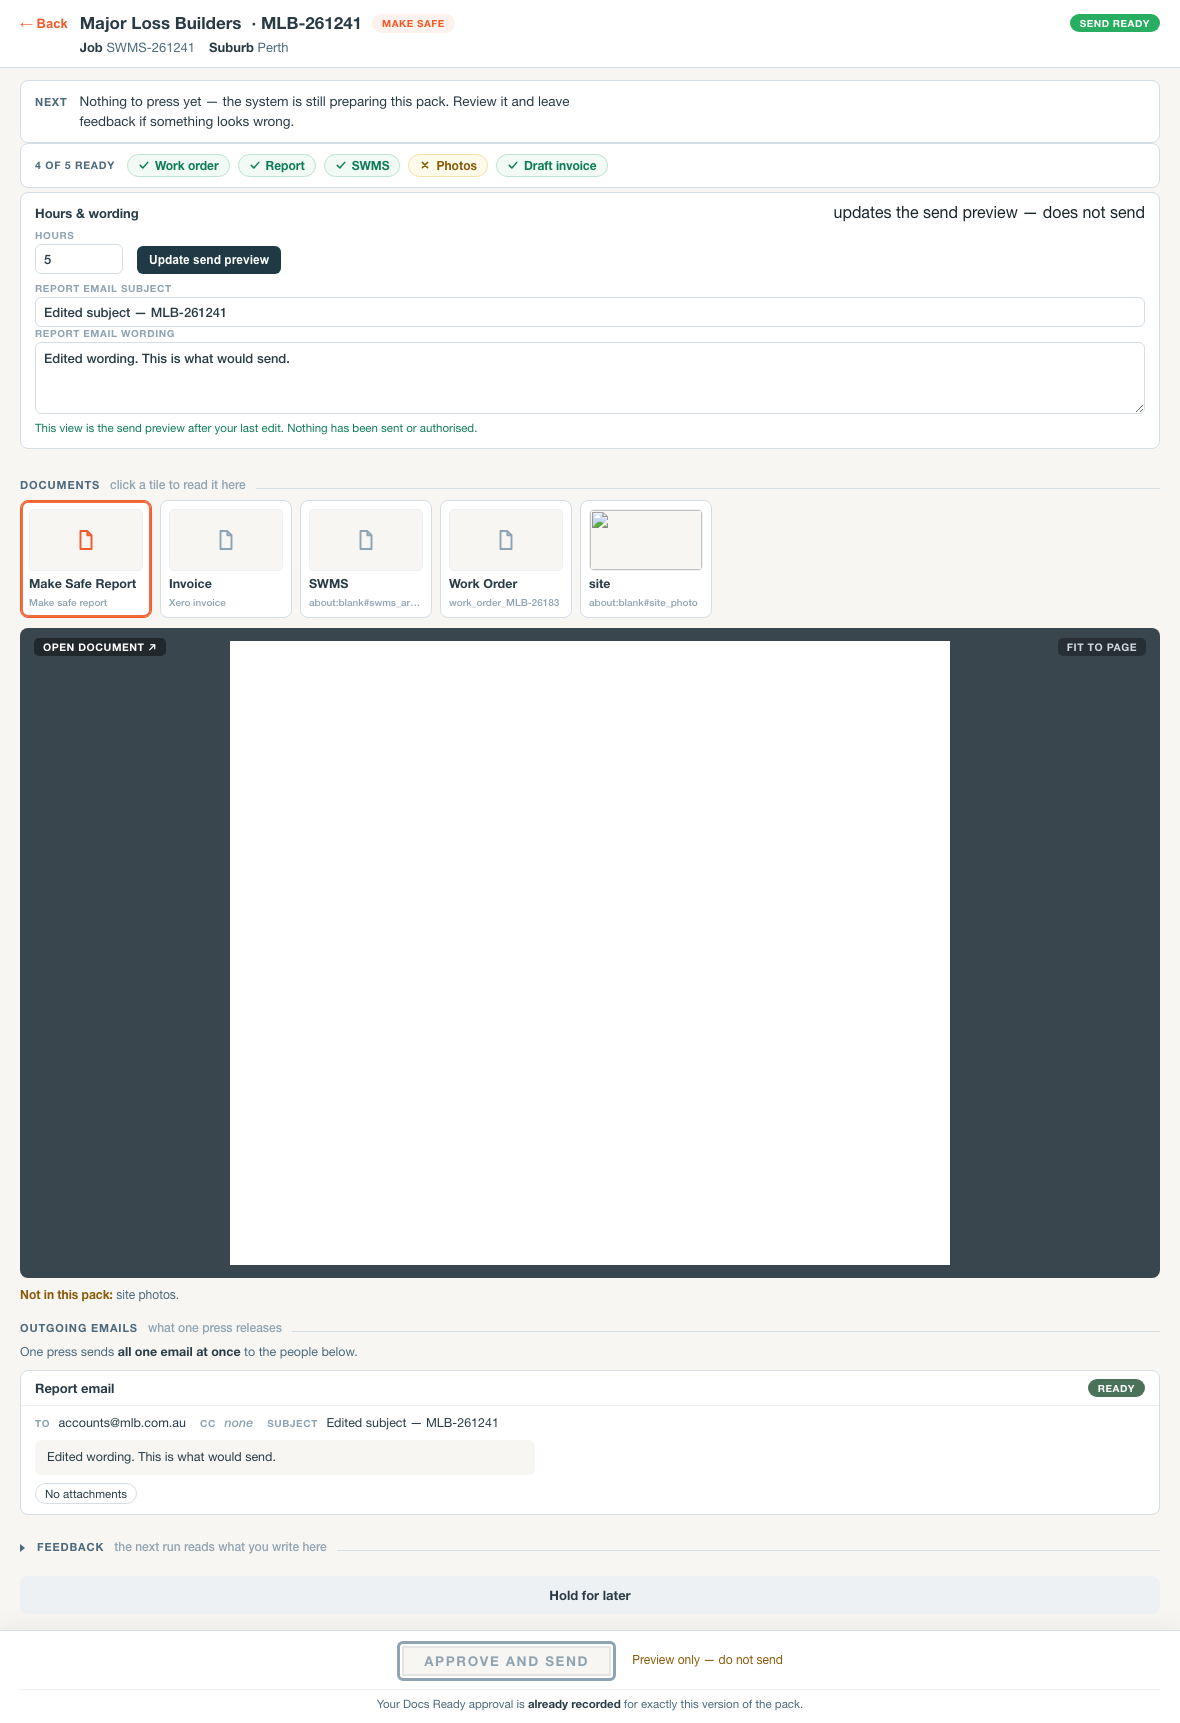
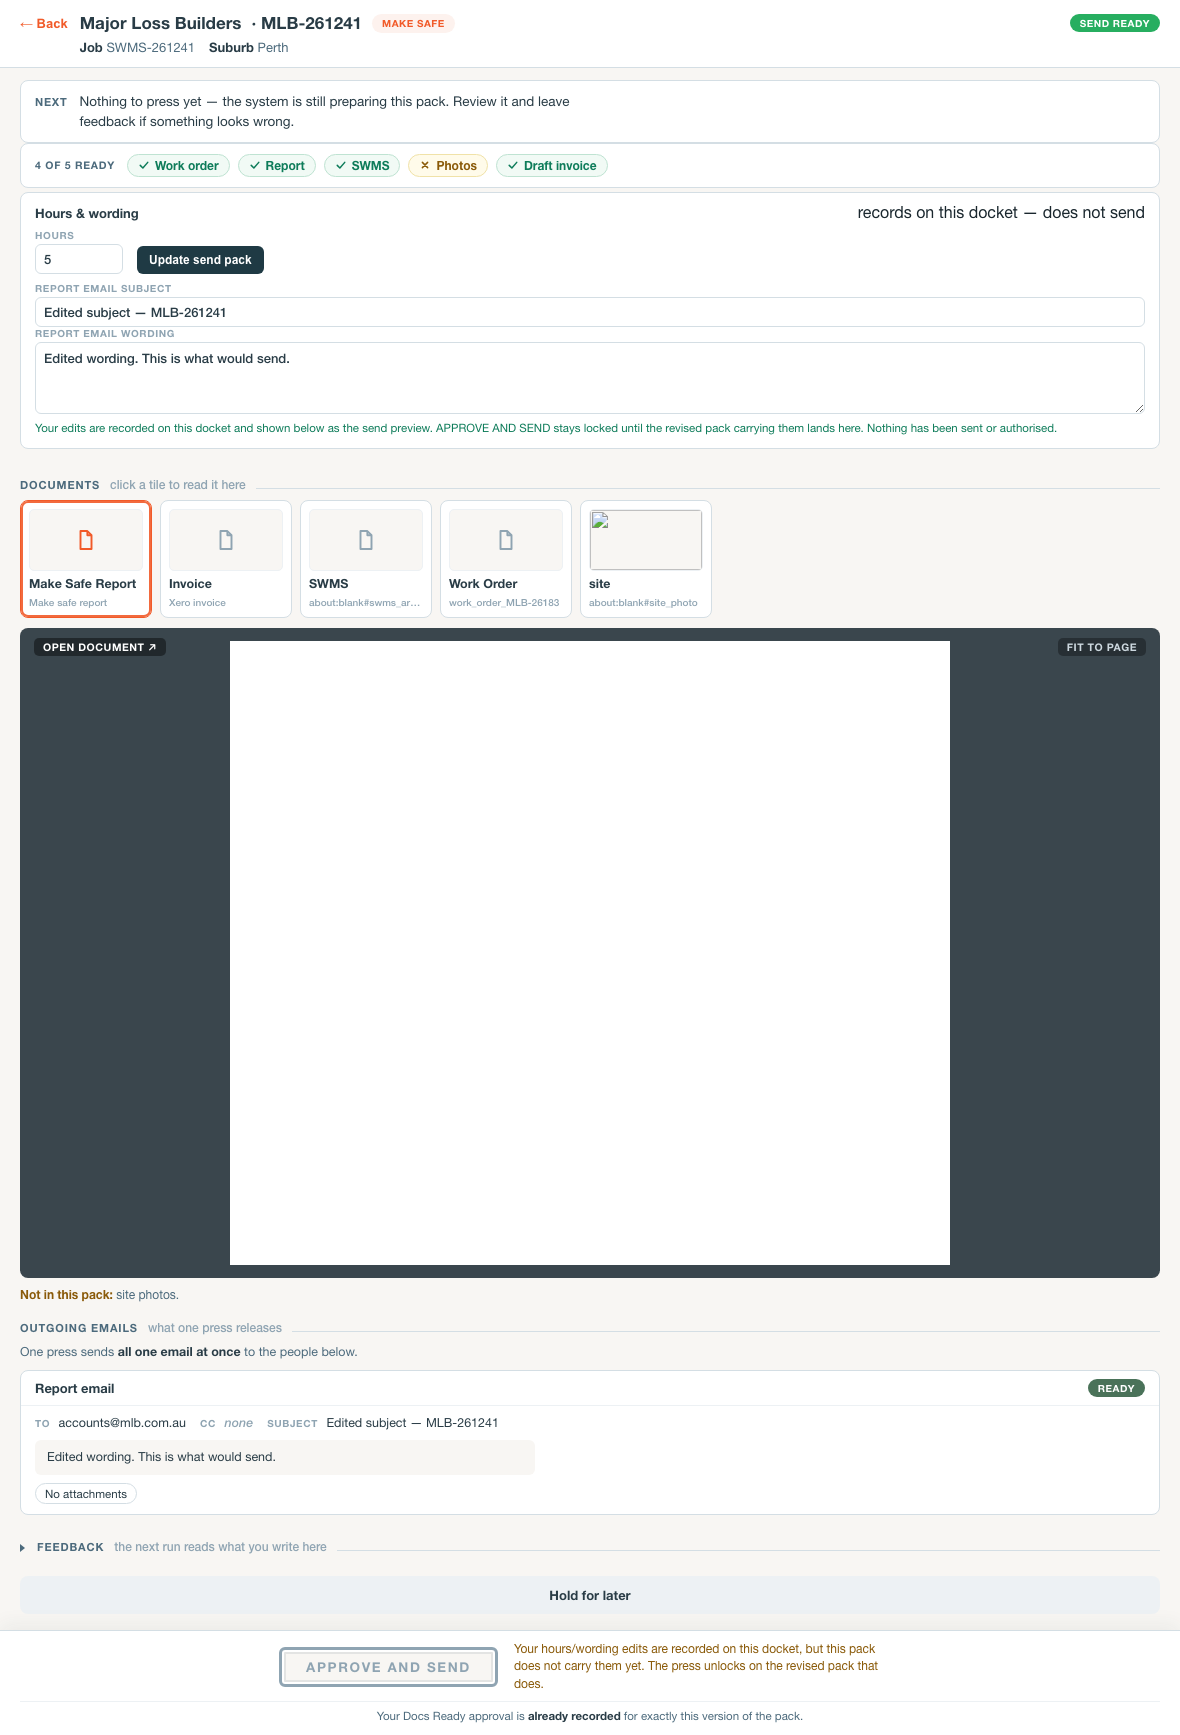
no-mistakes(review): countermand withdrawn edits on docket, refresh evidence shots

diff --git a/modules/ops-makesafe-reporting-cockpit.js b/modules/ops-makesafe-reporting-cockpit.js
@@ -1061,9 +1061,58 @@ async function _msSesApplySendPreview(jobId) {
   }
 
   if (!noteLines.length) {
+    var recorded = _msSesPreviewOf(jobId, ctx);
+    if (!recorded) {
+      delete _msSesSendPreview[jobId];
+      showToast('No changes to record — the pack already matches these values.', 'info');
+      repaint();
+      return;
+    }
+    // Retyping the pack's original values WITHDRAWS the recorded edit: the
+    // withdrawal is itself recorded on the docket (the earlier note must not
+    // be applied by the revise pass), and the press re-arms only from a fresh
+    // pack read — never from this stale context.
+    var withdrawLines = ['Withdraw the earlier review edits below — keep the pack as drafted.'];
+    if (recorded.hours != null) {
+      withdrawLines.push('Withdrawn: set the invoice labour hours to ' + recorded.hours + '.');
+    }
+    Object.keys(recorded.routes || {}).forEach(function(kind) {
+      var wLabel = _MS_SES_ROUTE_LABELS[kind] || (kind + ' email');
+      if (recorded.routes[kind].subject != null) {
+        withdrawLines.push('Withdrawn: the edited subject for the ' + wLabel + '.');
+      }
+      if (recorded.routes[kind].body != null) {
+        withdrawLines.push('Withdrawn: the edited wording for the ' + wLabel + '.');
+      }
+    });
+    var wBtn = _msSesScopedEl(jobId, 'msSesEditApply-' + jobId);
+    if (wBtn) { wBtn.disabled = true; wBtn.textContent = 'Recording...'; }
+    var wAuthor = (typeof _MS_NOTES_DEFAULT_AUTHOR !== 'undefined' && _MS_NOTES_DEFAULT_AUTHOR) || 'Ops';
+    try {
+      await opsPostJwt('record_ses_review_feedback', {
+        docket_revision_id: ctx.docketRevisionId,
+        job_id: jobId,
+        change_type: 'human_review_feedback',
+        before: null,
+        after: { note: withdrawLines.join('\n'), author: wAuthor }
+      });
+    } catch (e) {
+      showToast('The withdrawal could not be recorded on the docket: ' + ((e && e.message) || e), 'error');
+      if (wBtn) { wBtn.disabled = false; wBtn.textContent = 'Update send pack'; }
+      return;
+    }
+    if (typeof _msSesEchoCache !== 'undefined' && _msSesEchoCache) {
+      _msSesEchoCache[jobId] = (_msSesEchoCache[jobId] || []).concat([{
+        role: 'human',
+        author: wAuthor,
+        body: withdrawLines.join('\n'),
+        created_at: new Date().toISOString(),
+        ses_recorded: true
+      }]);
+    }
     delete _msSesSendPreview[jobId];
-    showToast('No changes to record — the pack already matches these values.', 'info');
-    repaint();
+    showToast('Earlier edits withdrawn on the SES docket. Re-reading the pack before the press can re-arm.', 'success');
+    _msSesReloadDetail(jobId);
     return;
   }
 

diff --git a/docs/evidence/ses-loop-ux-overlay-v1/README.md b/docs/evidence/ses-loop-ux-overlay-v1/README.md
@@ -7,6 +7,6 @@ Regenerate: `node scripts/ses-loop-overlay-shot.js docs/evidence/ses-loop-ux-ove
 |---|---|
 | `ses-loop-cards.png` | SWMS-261237 (drafted, not in queue) has Review job pack. SWMS-261241 chips match the pack (WO attached, 4/5; Sent still pending). SWMS-261243 assessment stays No pack drafted with no Review button. |
 | `ses-loop-overlay-before.png` | Same review/send overlay as 261241: Hours & wording editors, Feedback is not the only box. |
-| `ses-loop-overlay-after-edit.png` | Hours 5 + edited subject/body; outgoing email preview is what would send. APPROVE AND SEND stays unused. |
+| `ses-loop-overlay-after-edit.png` | Hours 5 + edited subject/body recorded on the docket: the pane previews them, and APPROVE AND SEND is locked until the revised pack carries them. Nothing sent or authorised. |
 
 Identity only (job number + suburb). No client name, street, or phone.

diff --git a/AGENTS.md b/AGENTS.md
@@ -214,7 +214,10 @@ channel), so the revised pack carries them; until it lands, the edited values
 overlay the view as a preview keyed to that docket revision
 (`_msSesSendPreview`, invalidated by `_msSesPreviewOf` on any revision/hash
 change) and APPROVE AND SEND is locked — the press may never send content
-different from what is shown. Only an explicitly labour line
+different from what is shown. Retyping the pack's original values WITHDRAWS
+the recorded edit: a countermanding note is recorded on the same docket, the
+lock clears, and the press re-arms only from a fresh pack read — never from
+the stale context. Only an explicitly labour line
 (`_msSesInvoiceLineIsLabour`) is rescaled by an hours edit — never "the first
 line" and never a bare "hour" match. Guard:
 `tests/e2e/ops-ses-loop-overlay.spec.js`;
